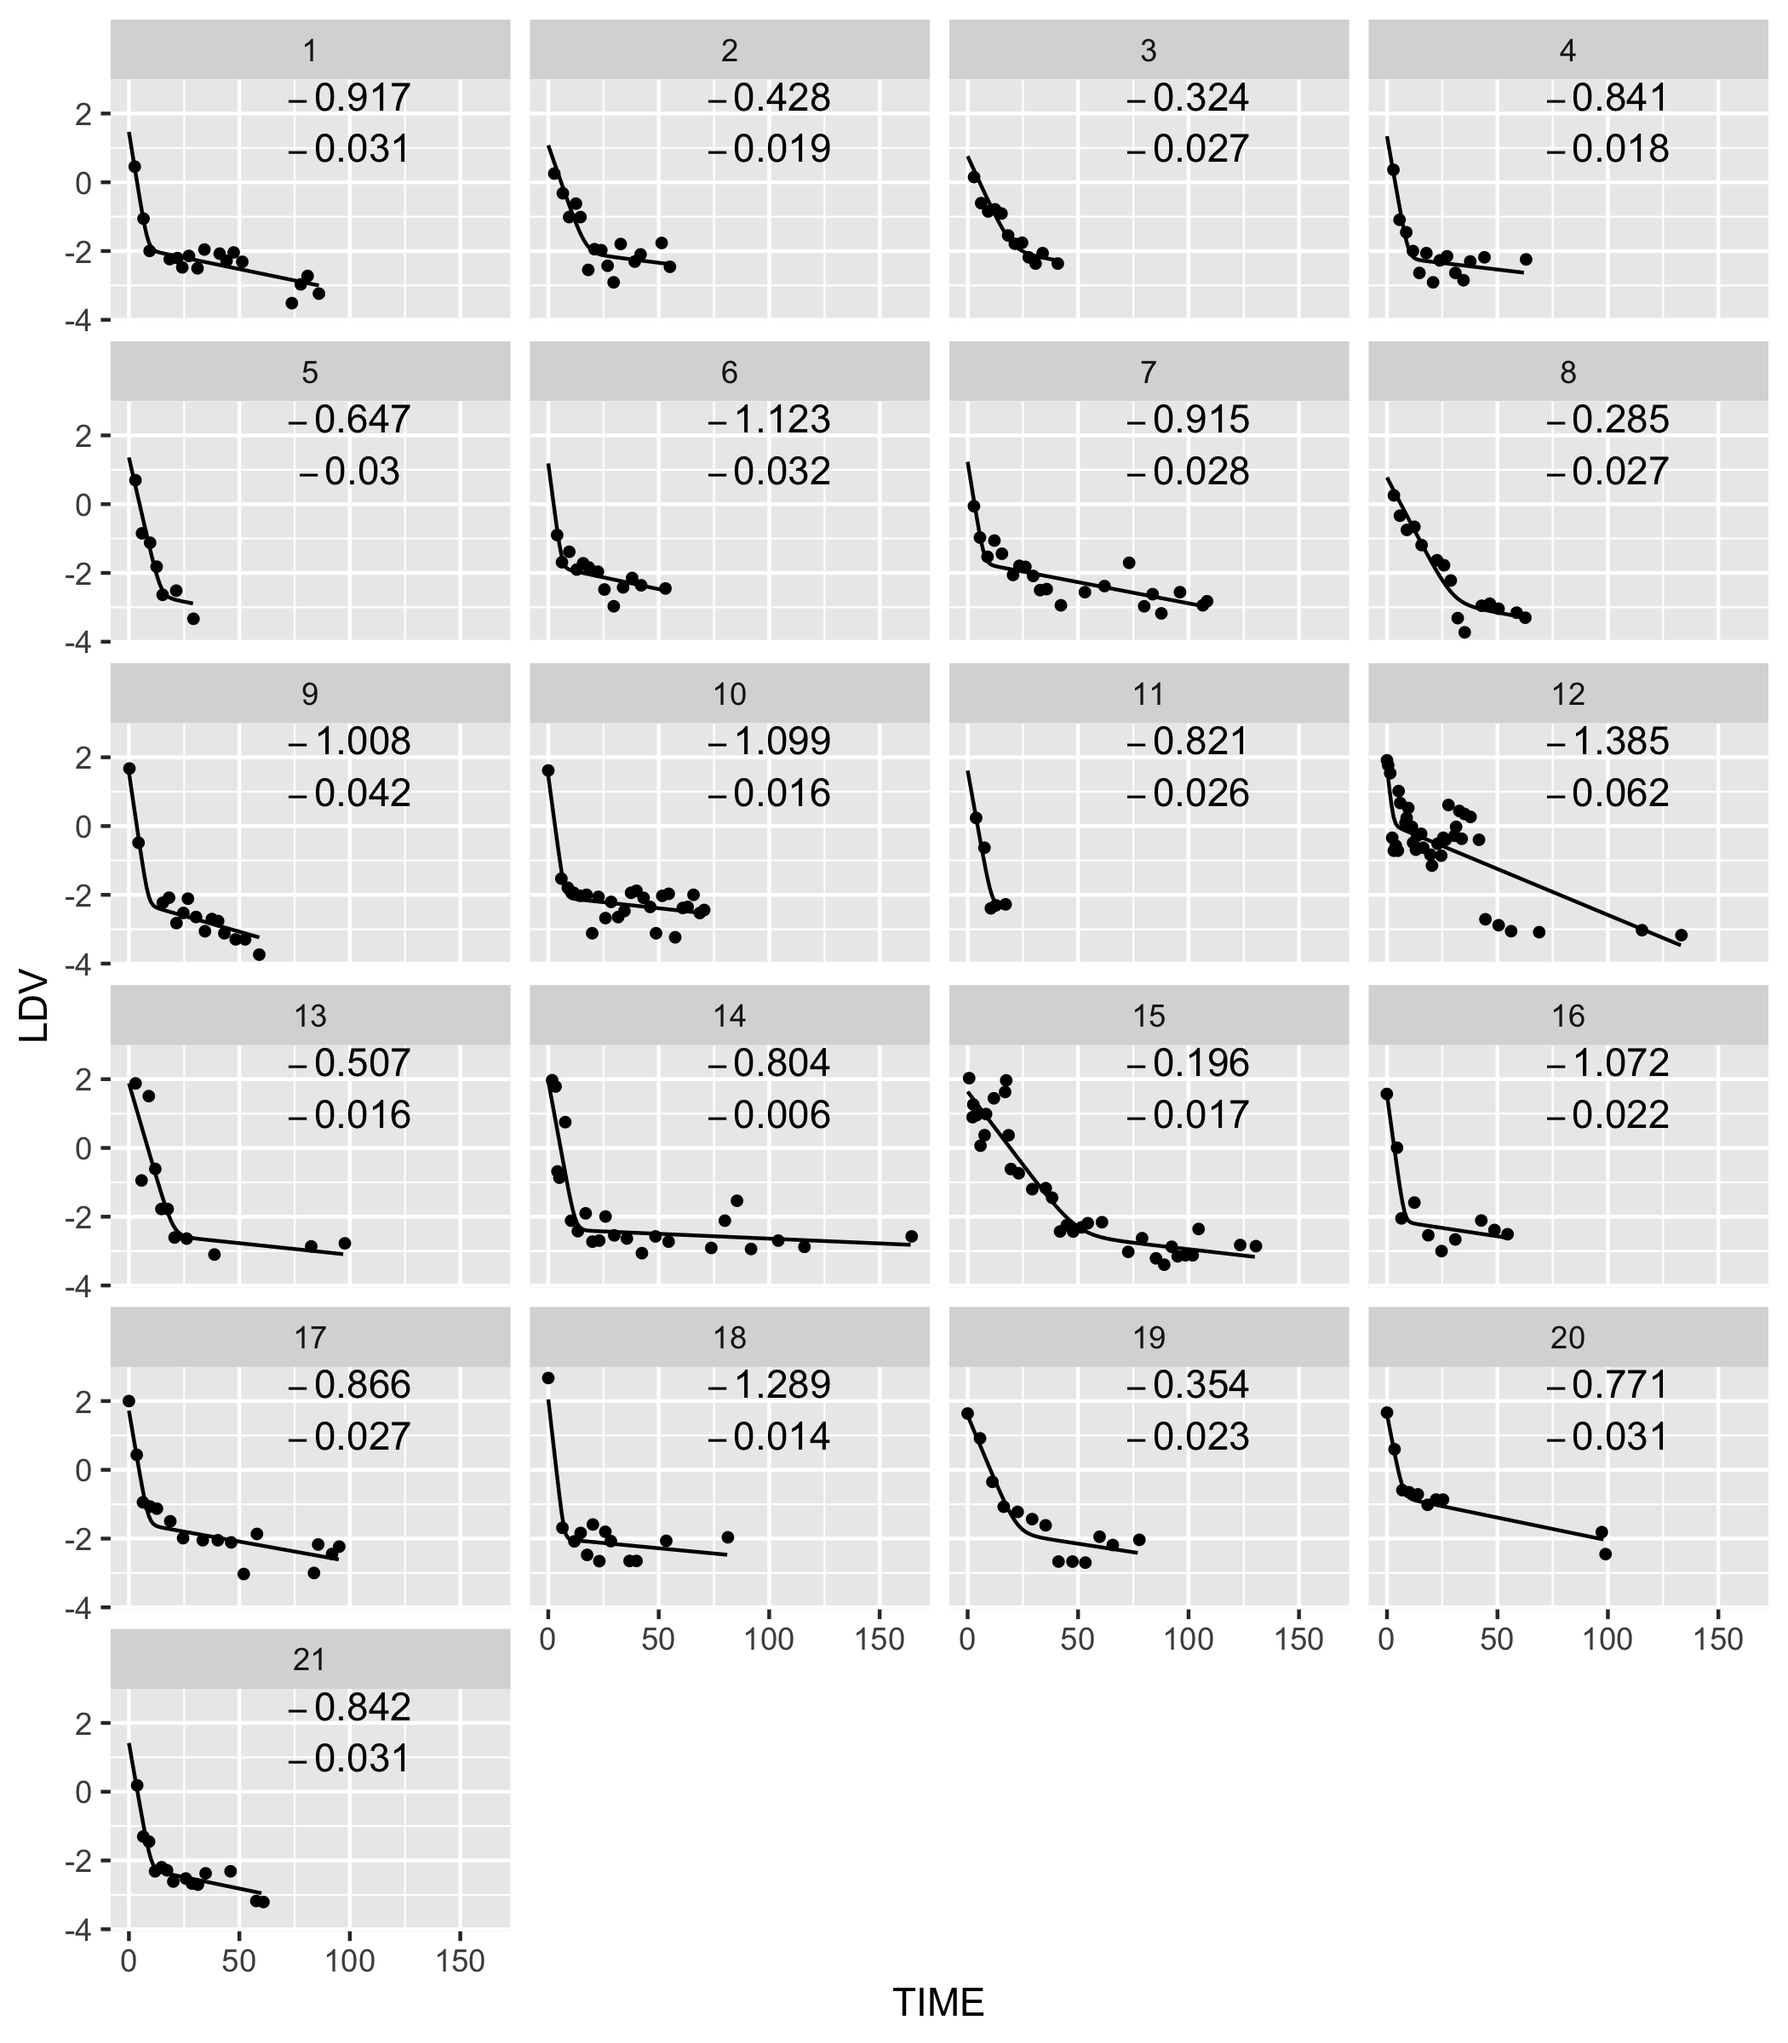
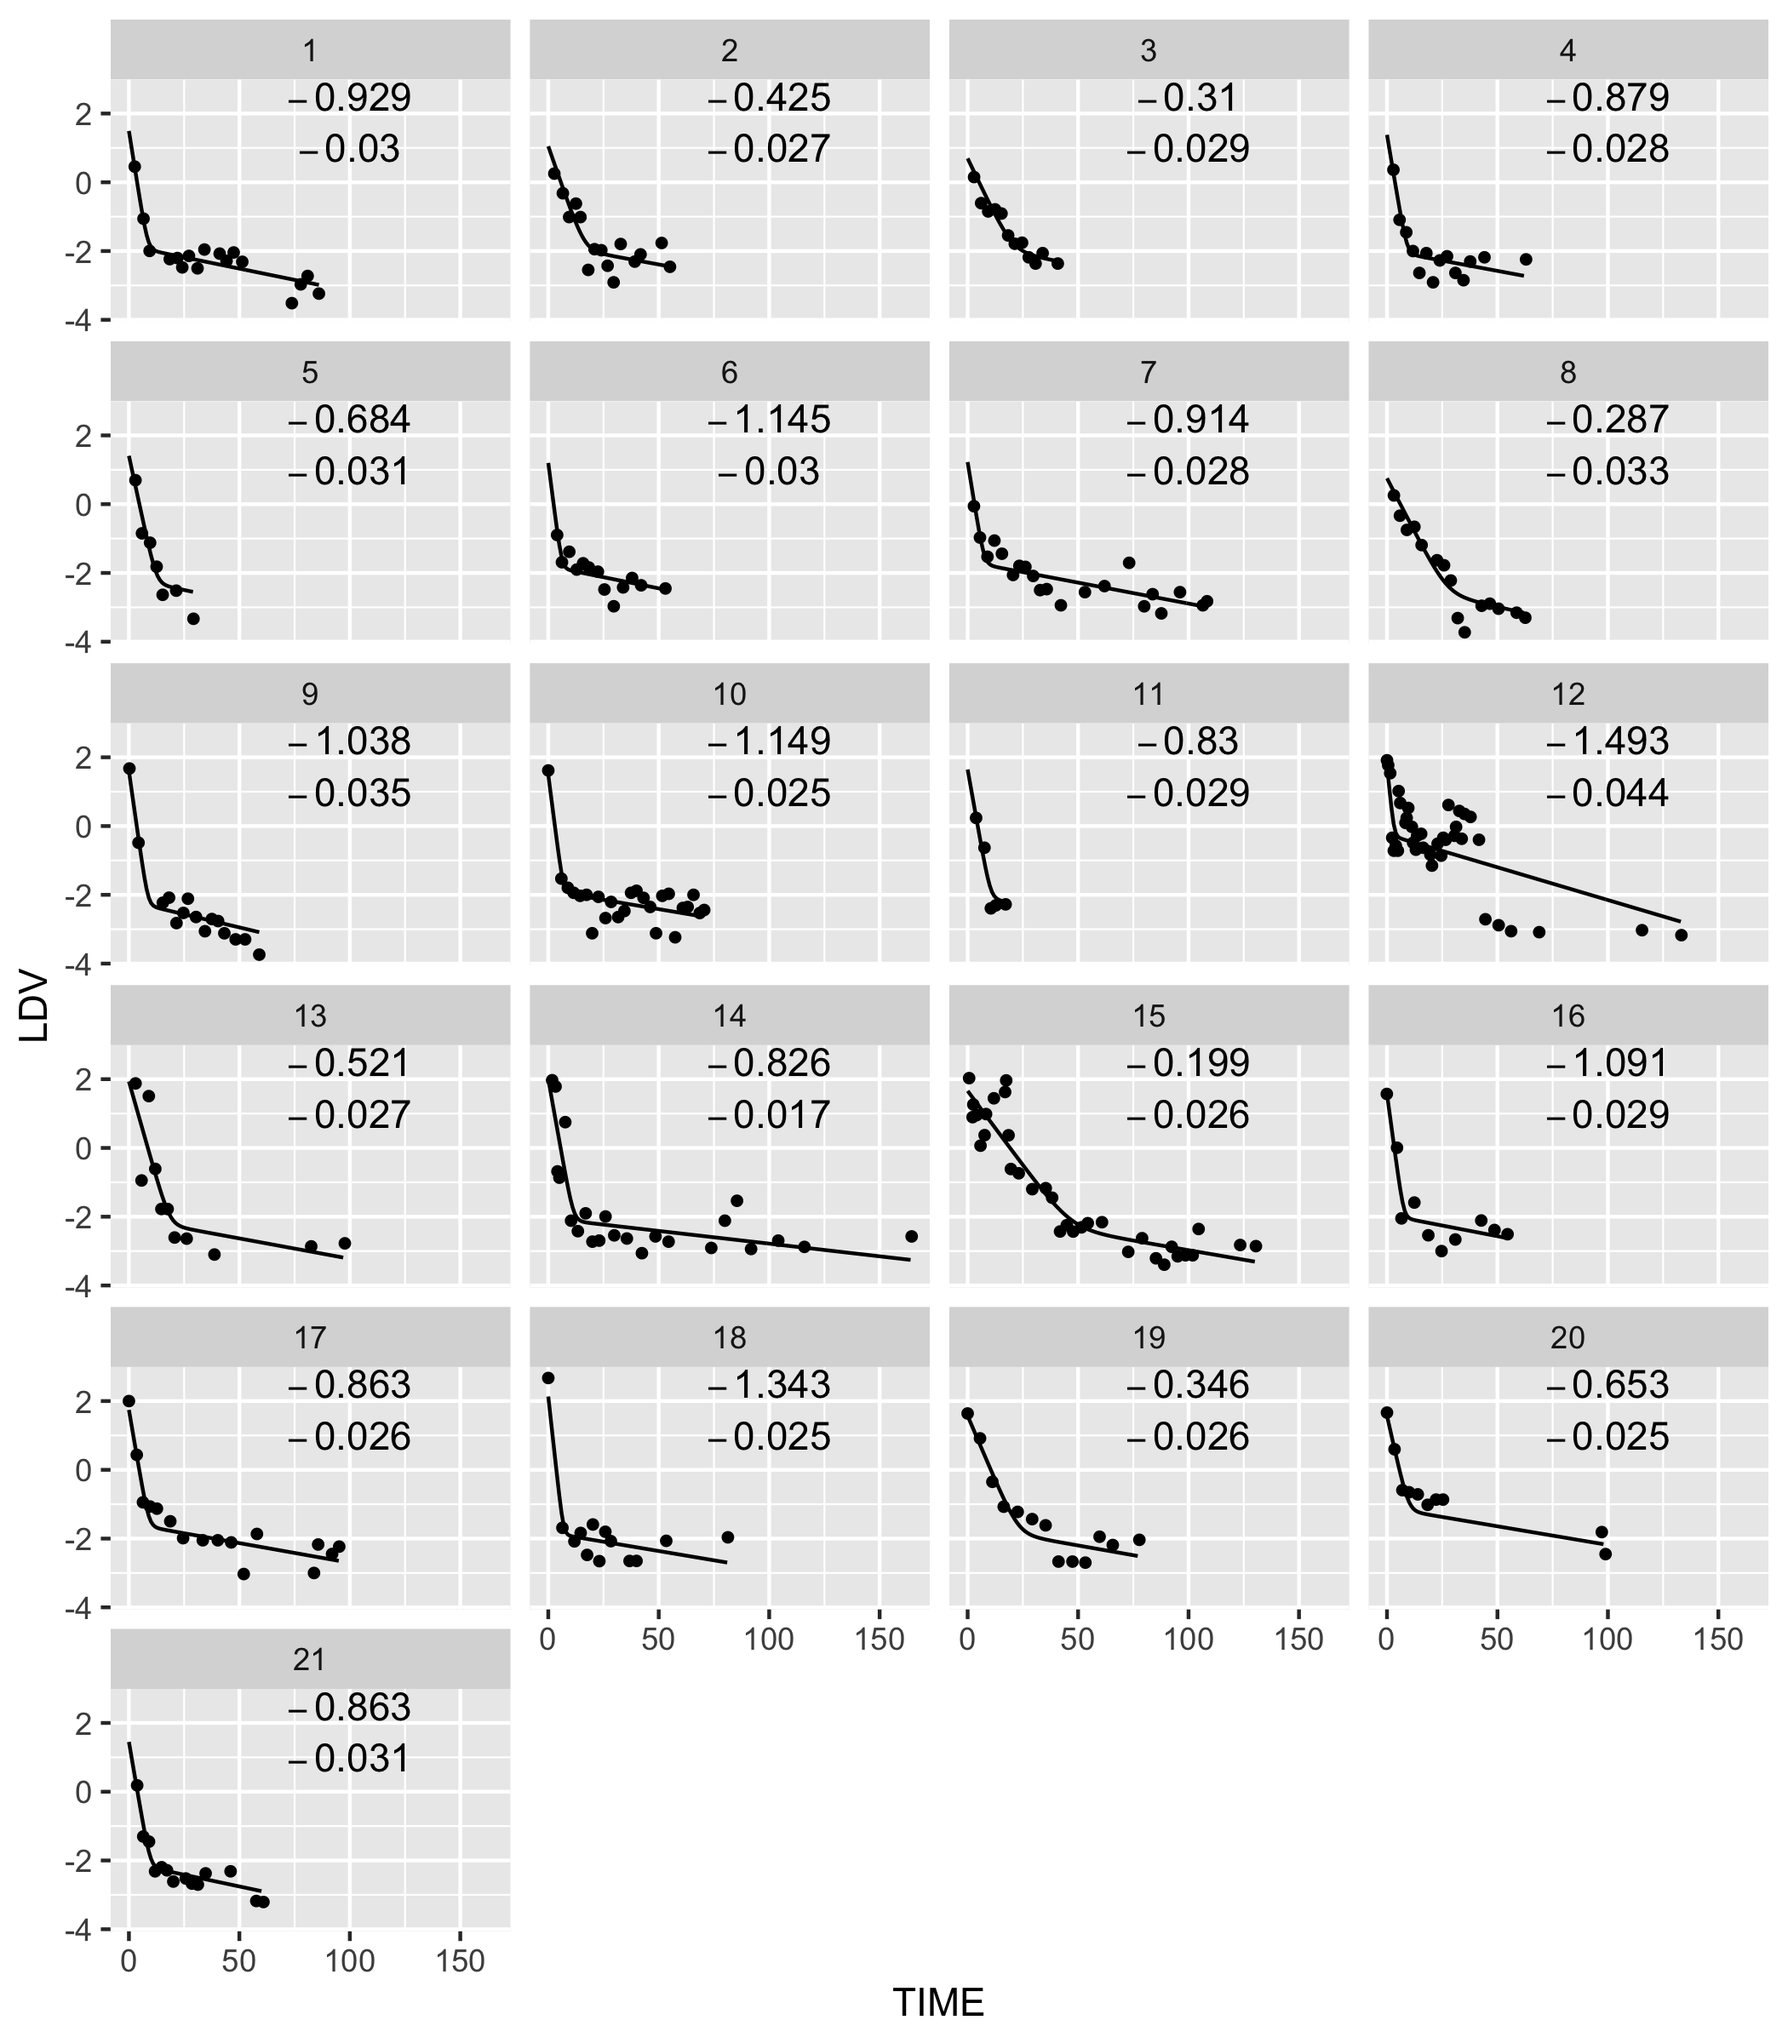
add nlmixr example

diff --git a/CML/hahnel20/alphasNbetas/README.md b/CML/hahnel20/alphasNbetas/README.md
@@ -39,7 +39,7 @@ for (i in 1:21) {   # this weakness drove my use here of a for loop
   t=d1$TIME
   x=d1$LNDV
   N=length(x)
-  L[[i]]=summary(maxLik(loglik, start=c(A=100,alpha=-1,B=1,beta=-0.05,sigma=0.5)))  
+  L[[i]]=summary(maxLik(loglik, start=c(A=100,alpha=-1,B=0.1,beta=-0.05,sigma=0.5)))  
 }
 (L=lapply(L,coef))
 (P=lapply(L,function(x) x[,1]))
@@ -68,16 +68,18 @@ ggsave("../docs/alphaNbetaDataNfits.png",width=7,height=8)
 
 ![](../../../docs/alphaNbetaDataNfits.png)
 which shows α and β values ~2.3-fold higher than log10 scale α and β slopes in Fig S2. 
-Fits of patients 4, 10 and 18 could be better.
+Fits can be improved by tuning initial estimates.
 
-Using the R package bbmle, similar fits can be obtained as follows. 
+Using the same initial estimates and the same 
+optimization method (Nelder-Mead), but using bbmle instead of maxLik, the code 
+is cleaner, as variables are no longer passed to functions via globals.  
 ```
 library(bbmle)
 dn=d%>%group_by(ID)%>%nest()
 fitBi=function(d1)  {
   coef(summary(mle2(LNDV~dnorm(mean=log((exp(lA+alpha*TIME) + exp(lB+beta*TIME))),sd=sigma),
                method="Nelder-Mead", 
-               start=list(lA=log(100),alpha=-1,lB=log(1),beta=-0.05,sigma=0.5),data=d1,
+               start=list(lA=log(100),alpha=-1,lB=log(0.1),beta=-0.05,sigma=0.5),data=d1,
                control = list(maxit=500))))  
 }
 dn=dn%>%mutate(M=map(data,fitBi))
@@ -104,36 +106,14 @@ ggsave("../docs/alphaNbetaDataNfitsBB.png",width=7,height=8)
 ```
 
 ![](../../../docs/alphaNbetaDataNfitsBB.png)
-which shows better fits of patients 4, 10 and 18.
+  
 
-R package parameter estimate differences can be drastic, as seen below for A and alpha of 
-pts 1, 3, 6, and 7, and B and beta of 13. 
-```
-pML<-cbind(d21[,1],bind_rows(P))
-pML$method="maxLik"
-pBB<-cbind(d21[,1],bind_rows(dn$P))
-pBB$method="bbmle"
-bind_rows(pML,pBB)%>%arrange(ID)%>%filter(ID%in%c(1,3,6,7,13))
-
-   ID            A      alpha           B         beta     sigma method
-1   1 4.222862e+01 -0.9970453 0.016054450 -0.033776730 0.6272613 maxLik
-2   1 8.070877e+04 -3.8916201 0.024939337 -0.041162706 0.7423625  bbmle
-3   3 2.298123e+01 -1.0438443 0.469013963 -0.130820280 0.4787884 maxLik
-4   3 4.144447e+02 -2.0406933 0.500721898 -0.133096927 0.4802431  bbmle
-5   6 1.171979e+03 -2.3246318 0.027987216 -0.050265072 0.6637285 maxLik
-6   6 4.024998e+05 -3.7792521 0.028233184 -0.050498802 0.6635207  bbmle
-7   7 5.140817e-01 -0.1885761 0.005353326 -0.011377815 0.7660208 maxLik
-8   7 1.855883e+03 -2.6750067 0.032174230 -0.033431420 0.9228490  bbmle
-9  13 1.044945e+02 -0.5194102 0.001098639  0.003243757 1.6680958 maxLik
-10 13 1.611426e+02 -0.5611876 0.051454394 -0.055396728 2.5671772  bbmle
-```
-
-To bias estimates toward patient population averages, we can use nlmer in 
+To bias estimates toward patient population averages, we can use the function nlmer in 
 the mixed effects R package lme4. 
 
 ```
 library(lme4)
-(startvec <- c(lA = log(100), alpha = -1, lB=log(0.5), beta = -0.05))
+(startvec <- c(lA = log(100), alpha = -1, lB=log(0.1), beta = -0.05))
 nform <- ~ log(exp(lA+alpha*input) + exp(lB+beta*input))
 nfun <- deriv(nform, namevec=c("lA", "alpha", "lB", "beta"),
               function.arg=c("input","lA", "alpha", "lB", "beta"))
@@ -166,10 +146,104 @@ We now have nice fits with parameter estimates that are more similar.
 Information was borrowed across patients in one joint fit of 
 population parameter means and variances. 
 Assuming normality, estimates for individuals were 
-bought closer to the population means. 
+brought closer to the population means. 
 
 A limitation of lme4 is that it requires closed form models. Models are often more simply described by 
-ordinary differential equations (ODEs). An R package that allows this is nlmixr. A demo of its use is provided in the 
-adjacent folder alphasNbetasUsingODEs.
+ordinary differential equations (ODEs). An R package that allows this is nlmixr. In 
+this pharmacokinetic data analysis package, states are masses 
+(drug amounts),  rate constants are clearances divided by volumes, and the
+output is the drug concentration in the central compartment (mass divided by volume).
 
+Bi-exponential decays are captured by two-compartment models. We thus
+view BCR-ABL as being injected into a central compartment from which it is cleared 
+permanently or set aside temporarily in a peripheral compartment that protects it, until it returns to the
+central compartment. Needed then is a mapping of our initial estimates used above of 
+A=100, alpha=-1, B=0.1, and beta=-0.05, to initial estmates of two-compartment PK model parameters.
+To get the initial BCR-ABL value of 100.1, we set the dose to 1001 and 
+our initial estimate of the central volume (Vc) thus to 10. We then set
+the initial estimate of the elimination rate constant Ke to 1 (i.e. -alpha) 
+and the initial estimate of the peripheral-to-central
+rate constant Kpc to 0.05 (i.e. -beta). Setting the reverse,
+Kcp, to a similarly small initial value of 0.05, the nlmixr code is
 
+```
+library(nlmixr)
+dn=d # will add dose rows into dn 
+dn$TIME[dn$TIME<=0.001] #need these to come after bolus injection for ODEs
+dn$TIME[dn$TIME<=0.001]= 0.001 # some are slightly negative (near zero)
+dn$EVID=0
+dn$AMT=0
+(dn=dn%>%group_by(ID)%>%nest())
+dn$data[[1]]
+# EVID = 10,000 × (1 If IV Infusion 0 If Bolus) +100 × (Compartment #)+1
+(dtop=data.frame(TIME=0,DV=0,LDV=0,LNDV=0,EVID=101,AMT=1001)) #101 =>into compartment 1 
+dn=dn%>%mutate(ndata=map(data,function(x) rbind(dtop,x)))
+(dn=dn%>%select(-data)%>%unnest(cols = c(ndata)))
+
+two.compartment.IV.model <- function(){
+  ini({ # Where initial conditions/variables are specified
+    lVc <- log(10)    #log Vc    
+    lKe <- log(1)     #log Ke   
+    lKpc<- log(0.05)  #log Kpc      
+    lKcp<- log(0.05)  #log Kcp  
+    prop.err <- 0.3 
+    eta.Vc ~ 0.15   
+    eta.Ke ~ 0.15
+    eta.Kpc ~ 0.15  
+    eta.Kcp  ~ 0.15
+  })
+  model({ # Where the model is specified
+    Vc  <- exp(lVc + eta.Vc)
+    Ke  <- exp(lKe + eta.Ke)
+    Kpc <- exp(lKpc + eta.Kpc)
+    Kcp <- exp(lKcp + eta.Kcp)
+    # RxODE-style differential equations are supported
+    d/dt(centr)  = Kpc*periph-Kcp*centr-Ke*centr;
+    d/dt(periph) =-Kpc*periph+Kcp*centr;
+    cp = centr / Vc;
+    cp ~ prop(prop.err)
+  })
+}
+(fit <- nlmixr(two.compartment.IV.model,dn,est="saem"))
+pfit=nlmixrPred(fit,ipred=TRUE)
+str(pfit)
+dp=data.frame(ID=pfit$id,TIME=pfit$time,Y=pfit$ipred)%>%mutate(LDV=log10(Y))
+d%>%ggplot(aes(x=TIME,y=LDV))+facet_wrap(ID~.,ncol=4)+geom_point(size=1)+geom_line(data=dp)
+ggsave("../docs/nlmixrFit1.png",width=7,height=8)
+```
+![](../../../docs/nlmixrFit1.png)
+
+Patient-specific model parameter estimates can be retrieved as follows.
+
+```
+fe=coef(fit)$fixed[1:4]
+re=coef(fit)$random[,2:5]
+(P=re+t(t(rep(1,21)))%*%t(fe))
+(P=exp(P))
+names(P)=c("Vc","Ke","Kpc","Kcp")
+P
+
+           Vc        Ke         Kpc          Kcp
+1  190.022803 0.9683176 0.023447195 1.024638e-02
+2  410.873068 0.4121233 0.009171166 1.004519e-02
+3  206.820753 0.8199347 0.089255357 2.691175e-02
+4  281.549731 0.8425779 0.009688618 1.449773e-02
+5  235.062980 0.7039342 0.026637963 2.904405e-03
+6  165.676543 1.3410858 0.036949112 2.052292e-02
+7  285.489040 0.9074194 0.025367178 3.498893e-02
+8  764.512689 0.3948731 0.028553293 3.769384e-03
+9  145.398173 1.0819822 0.071341269 4.845837e-03
+10 170.026827 1.2494456 0.008808499 3.080718e-02
+11 181.425513 0.7539363 0.015390202 4.596884e-03
+12  72.967882 0.6335443 0.097858338 4.628165e-01
+13   5.778486 0.5723832 0.005194983 9.861744e-05
+14  28.600861 0.6537157 0.003690037 3.437080e-03
+15   7.789124 0.2410669 0.006206287 3.068806e-05
+16 206.344675 0.7796115 0.014283552 8.859635e-03
+17 122.805873 0.8659598 0.023525108 1.587549e-02
+18  24.659964 1.7006906 0.007634866 1.231971e-02
+19  82.711098 0.4727110 0.023823067 3.658259e-03
+20 134.782622 0.7838043 0.029108729 6.414310e-02
+21 261.690853 0.8096706 0.014647168 6.283243e-03
+
+```
